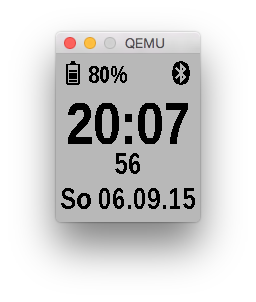
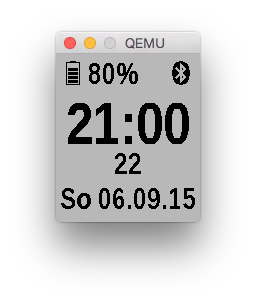
Bigger font for battery state

diff --git a/src/watchface.c b/src/watchface.c
@@ -88,10 +88,10 @@ static void main_window_load(Window *window) {
     text_layer_set_text_alignment(date_layer, GTextAlignmentCenter);
     layer_add_child(window_get_root_layer(main_window), text_layer_get_layer(date_layer));
     
-    battery_text_layer = text_layer_create(GRect(32, 5, 67, 34));
+    battery_text_layer = text_layer_create(GRect(32, 0, 67, 34));
     text_layer_set_background_color(battery_text_layer, GColorClear);
     text_layer_set_text_color(battery_text_layer, GColorBlack);
-    battery_font = fonts_load_custom_font(resource_get_handle(RESOURCE_ID_FONT_LIBERATION_NARROW_BOLD_24));
+    battery_font = fonts_load_custom_font(resource_get_handle(RESOURCE_ID_FONT_LIBERATION_NARROW_BOLD_30));
     text_layer_set_font(battery_text_layer, battery_font);
     text_layer_set_text_alignment(battery_text_layer, GTextAlignmentLeft);
     layer_add_child(window_get_root_layer(main_window), text_layer_get_layer(battery_text_layer));
